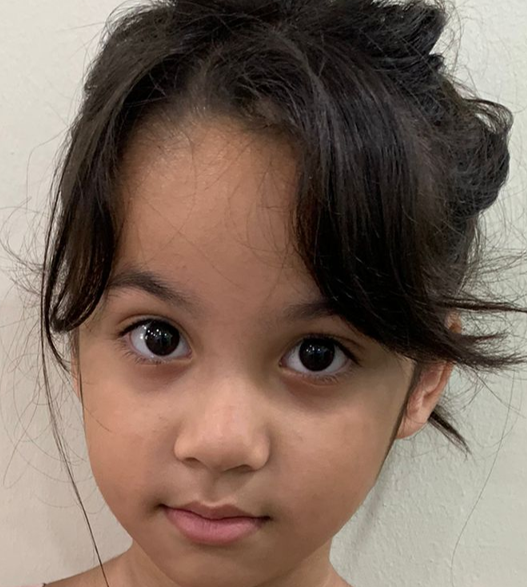
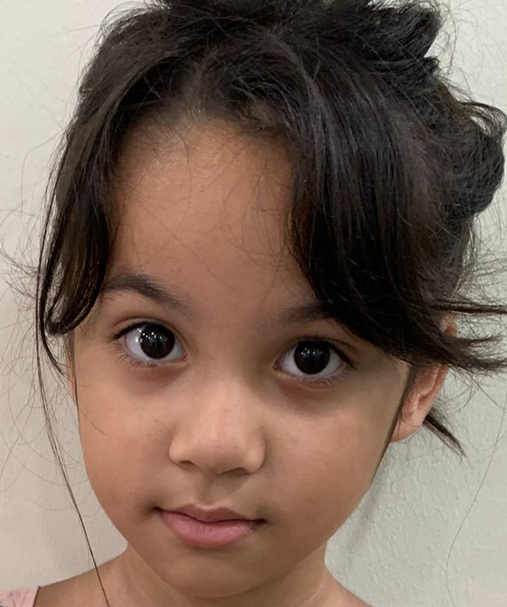
Sheyla

diff --git a/index.html b/index.html
@@ -52,7 +52,8 @@
       <li><a href="luke-tan/">Luke Tan</a></li>
       <li><a href="marshall-teo/">Marshall Teo</a></li>
       <li><a href="sierra-foong/">Sierra Foong</a></li>
-      <li><a href="Shea/">Shea</a></li>
+      <li><a href="Shea/">Shea Jethi Lee</a></li>
+      <li><a href="Sheyla/">Sheyla Jethi Lee </a></li>
       <li><a href="wang-siyu/">Wang Siyu</a></li>
       <li><a href="wayne-tham/">Wayne Tham</a></li>
     </ul>

diff --git a/Sheyla/index.html b/Sheyla/index.html
@@ -1,9 +1,9 @@
 ---
 layout: student_portfolio
-title: Shea's Portfolio
-student_name: Shea
-student_nickname: Shea
-portrait_image: /Shea/shea.png
+title: Sheyla's Portfolio
+student_name: Sheyla Jethi Lee
+student_nickname: Sheyla
+portrait_image: /Sheyla/sheyla.png
 
 intro: >
   Hi, my name is [student_nickname]! I am 12 years old. I started learning robotics with LEGO Mindstorms and block-based coding in Primary 2, 
